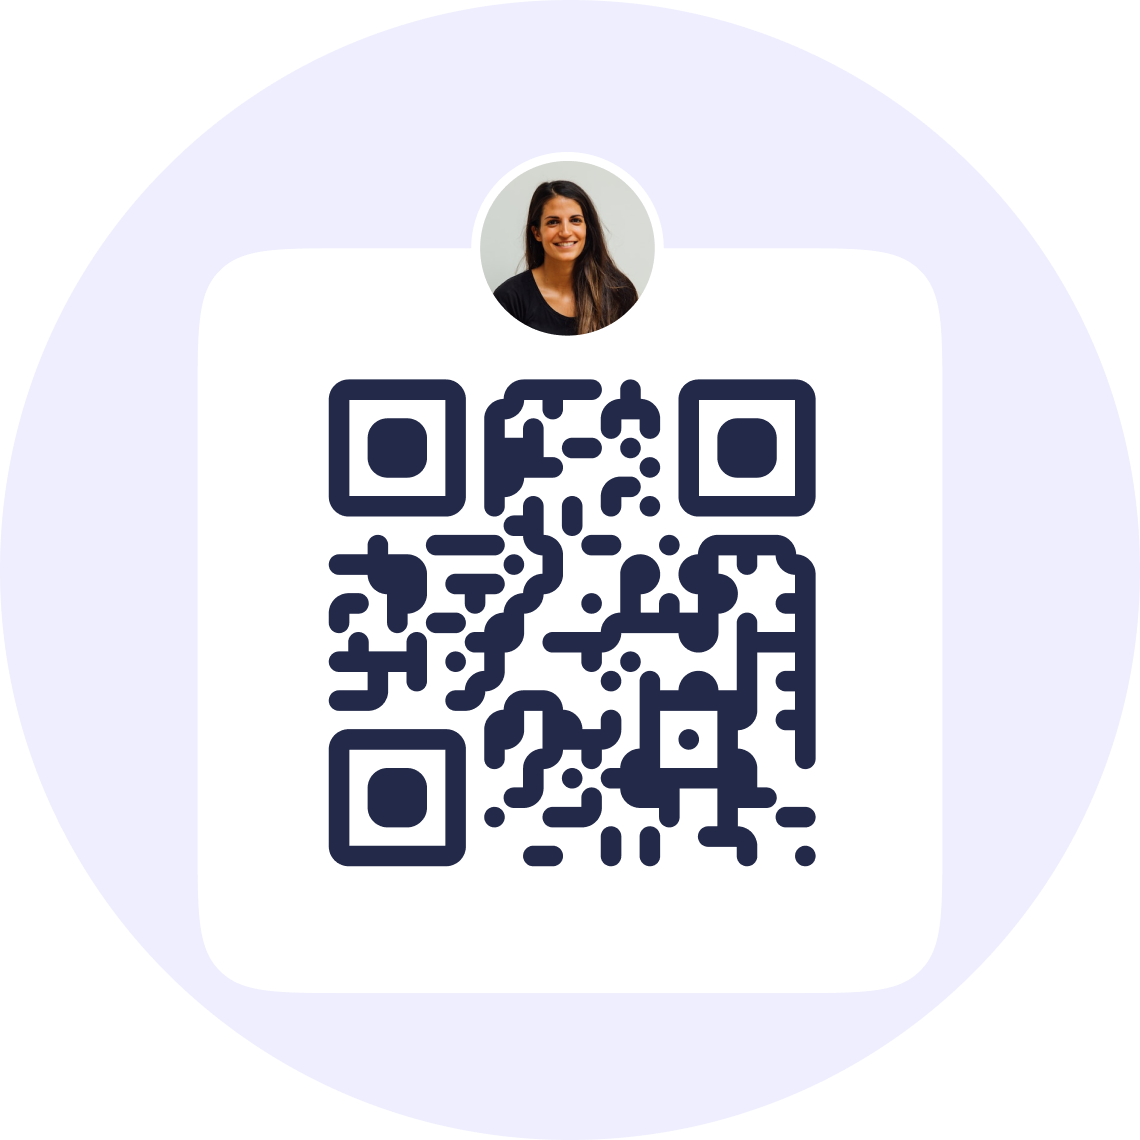
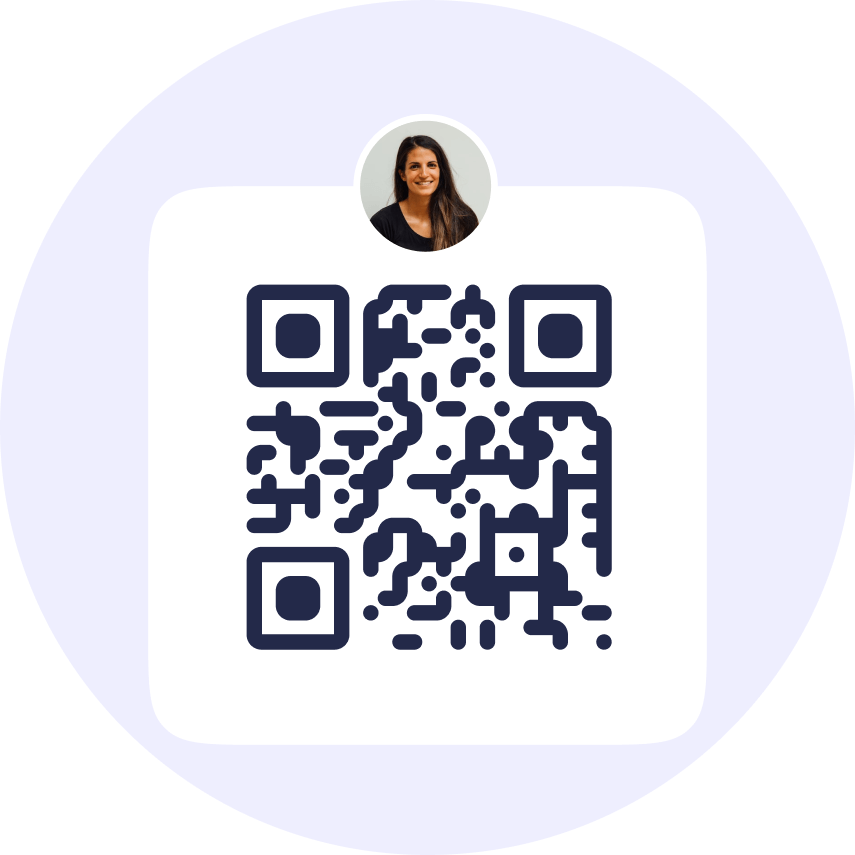
rn

Changed region(s): [[0.3649, 0.6386, 0.3953, 0.669], [0.3041, 0.7298, 0.3345, 0.7602]]

diff --git a/app/page.tsx b/app/page.tsx
@@ -1,5 +1,5 @@
-import Home from "@components/home-page";
 import { Metadata } from "next";
+import dynamic from "next/dynamic";
 
 export const metadata: Metadata = {
   title: "Home | Blue",
@@ -7,6 +7,7 @@ export const metadata: Metadata = {
     "Blue is a P2P payment system that enables users to make payments, send and receive money, request money, and pay bills seamlessly",
 };
 
+const Home = dynamic(() => import("@components/home-page"));
 const Homepage = () => <Home />;
 
 export default Homepage;

diff --git a/app/contact-us/page.tsx b/app/contact-us/page.tsx
@@ -1,11 +1,12 @@
 import { Metadata } from "next";
-import Contact from "./contact-us";
+import dynamic from "next/dynamic";
 
 export const metadata: Metadata = {
   title: "Contact us",
   description: "Stay connected with us for all your needs!",
 };
 
+const Contact = dynamic(() => import("./contact-us"));
 const ContactPage = () => <Contact url={process.env.API_URL!} />;
 
 export default ContactPage;

diff --git a/app/components/home-page.tsx b/app/components/home-page.tsx
@@ -6,7 +6,7 @@ import DownloadBtns from "@shared/downloadBtns";
 import { Card, Col, Row, Space, Typography } from "antd";
 import { Metadata } from "next";
 import Image from "next/image";
-import qrCode from "public/qr-code.svg";
+import qrCode from "public/qr-code.png";
 import screen1 from "public/screen-1.png";
 import screen2 from "public/screen-2.png";
 import screen3 from "public/screen-3.png";

diff --git a/app/privacy/page.tsx b/app/privacy/page.tsx
@@ -1,5 +1,5 @@
 import { Metadata } from "next";
-import Privacy from "./privacy";
+import dynamic from "next/dynamic";
 
 export const metadata: Metadata = {
   title: "Privacy policy",
@@ -9,6 +9,7 @@ export const metadata: Metadata = {
             protects You.`,
 };
 
+const Privacy = dynamic(() => import("./privacy"));
 const PrivacyPage = () => <Privacy />;
 
 export default PrivacyPage;

diff --git a/app/terms-and-conditions/page.tsx b/app/terms-and-conditions/page.tsx
@@ -1,5 +1,5 @@
 import { Metadata } from "next";
-import Terms from "./terms";
+import dynamic from "next/dynamic";
 
 export const metadata: Metadata = {
   title: "Terms and Conditions",
@@ -8,6 +8,7 @@ export const metadata: Metadata = {
             paymeblue.com.`,
 };
 
+const Terms = dynamic(() => import("./terms"));
 const TermsPage = () => <Terms />;
 
 export default TermsPage;

diff --git a/app/loading.tsx b/app/loading.tsx
@@ -1,5 +1,5 @@
 import Image from "next/image";
-import logo from "public/logo.svg";
+import logo from "public/logo1.png";
 
 export default function Loading() {
   return (
